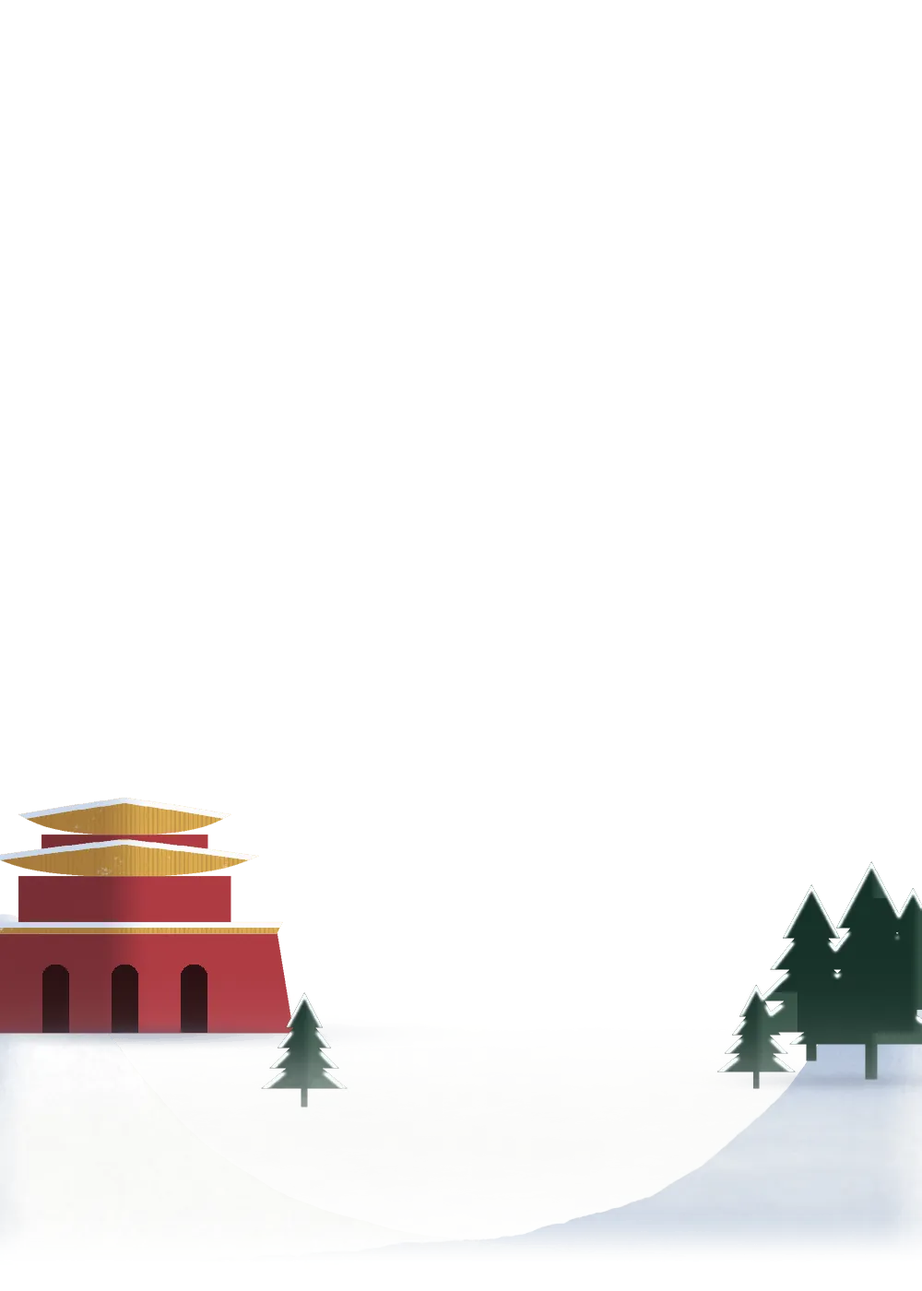
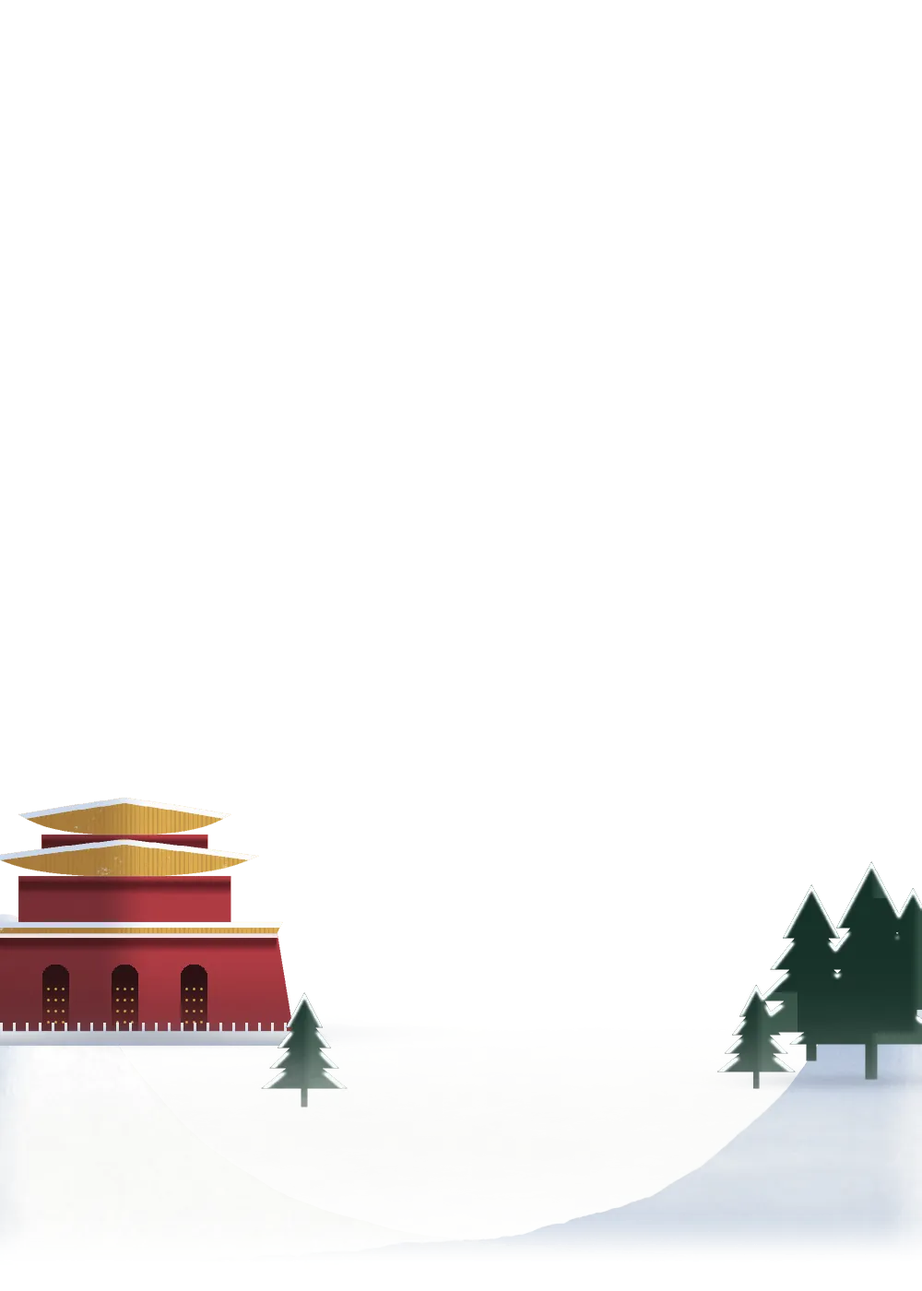
Ruta v25 (en curso): fondos pintados por capas con luz clave, niebla y partículas animadas; una sola gramática de camino por nivel; terreno, bruma y primer plano; tinta B1 que se pinta al avanzar; glifos caligráficos, candado de latón, Empezar con la clase, examen con premio y estado aprobado
Claude-Session: https://claude.ai/code/session_01BaUMrzu23xfwmbCXf3BkLv

Changed region(s): [[0.0, 0.645, 0.31, 0.7371], [0.0, 0.7679, 0.31, 0.8293]]

diff --git a/src/components/ruta/Recorrido.jsx b/src/components/ruta/Recorrido.jsx
@@ -70,7 +70,7 @@ const NIEBLA = { muralla: "#eef1f5", rio: "#f6d4a0", pincel: "#2a3358", escalina
 const LUZ_LADO = { muralla: 1, rio: -1, pincel: 1, escalinata: -1, nubes: 1 };
 const SUELO = {
   // [cresta iluminada, ladera en sombra, falda, borde difuso]
-  muralla: ["#fbf8f2", "#b4c4db", "#93a7c6", "rgba(244,246,250,.55)"],
+  muralla: ["#fdfaf4", "#9fb2d0", "#7489ad", "rgba(244,246,250,.55)"],
   rio: ["#f2cf92", "#c98e5c", "#a8684a", "rgba(250,214,160,.5)"],
   pincel: ["#efe6d2", "#d9cdb2", "#b9ab90", "rgba(239,230,210,.35)"],
   escalinata: ["#a9cf8f", "#5f8f60", "#3f6a4c", "rgba(226,238,226,.6)"],
@@ -81,15 +81,17 @@ function terreno({ M, forma }) {
   const tipo = forma.tipo;
   const c = SUELO[tipo];
   if (!c) return null;
-  const m = M(6);
+  const m = M(tipo === "pincel" ? 3 : 6);
   const lado = LUZ_LADO[tipo];
-  const ancho = (q) => (tipo === "pincel" ? 150 : 170) + 22 * Math.sin(q.s / 53 + 1) + 12 * Math.sin(q.s / 17);
+  const papel = tipo === "pincel";
+  // borde: ondulación amplia + barbas de papel de arroz (pincel) o irregularidad del terreno
+  const amplio = tipo === "escalinata" ? 2.2 : 1;
+  const ancho = (q) => (papel ? 128 : tipo === "escalinata" ? 190 : 170) + 22 * amplio * Math.sin(q.s / 53 + 1) + 12 * Math.sin(q.s / 17) + (papel ? 4 * Math.sin(q.s / 7.3) + 1.6 * Math.sin(q.s / 2.9 + 2) : 3 * Math.sin(q.s / 5.1));
   const grad = `r25-suelo-${tipo}`;
   return (
     <g className={`r25-suelo r25-suelo-${tipo}`}>
       {/* Halo difuso: el terreno se funde con el paisaje */}
-      <path d={cinta(m, (q) => ancho(q) + 90)} style={{ fill: c[3], opacity: 0.35 }} />
-      <path d={cinta(m, (q) => ancho(q) + 50)} style={{ fill: c[3], opacity: 0.55 }} />
+      <path className="r25-halo" d={cinta(m, (q) => ancho(q) + 60)} style={{ fill: c[3] }} />
       {/* Falda de la loma (volumen hacia el espectador) */}
       {tipo !== "pincel" && <path d={cinta(m, (q) => ancho(q) - 6, 0, 30)} style={{ fill: c[2] }} />}
       {tipo !== "pincel" && <path d={cinta(m, (q) => ancho(q) - 6, 0, 30)} style={{ fill: "url(#r25-falda)" }} />}
@@ -112,15 +114,18 @@ function brumaPendiente({ M, forma }) {
 /** Objetos delante del camino (oclusión): pinos nevados, tamariscos y rocas, hojas de orquídea a tinta, arbustos */
 function primerPlano({ M, forma, pts }) {
   const tipo = forma.tipo;
-  const libres = M(46).filter((q, k) => k > 1 && !pts.some((p) => Math.hypot(p[0] - q.x, p[1] + 30 - q.y) < 95));
+  const borde = { escalinata: 92, rio: 92, muralla: 80, pincel: 62 }[tipo] || 80;
+  const cerca = { escalinata: 50, rio: 66, muralla: 36, pincel: 30 }[tipo] || 40;
+  const libres = M(34).filter((q, k) => k > 1 && !pts.some((p) => Math.hypot(p[0] - q.x, p[1] + 30 - q.y) < 72));
   const piezas = [];
   libres.forEach((q, k) => {
-    if (azar(k * 9.1 + pts.length) < 0.35) return;
+    if (azar(k * 9.1 + pts.length) < 0.3) return;
     const lado = k % 2 ? 1 : -1;
-    const off = (tipo === "escalinata" ? 52 : tipo === "rio" ? 70 : 38) + azar(k * 3.3) * 14;
+    // dos de cada tres en el borde del terreno (rompen su silueta); una pegada al camino (lo tapa un poco: oclusión)
+    const off = (k % 3 === 0 ? cerca : borde) + azar(k * 3.3) * 14;
     const x = q.x + q.nx * lado * off;
     const y = q.y + q.ny * lado * off + 14;
-    const e = 0.75 + azar(k * 5.7) * 0.5;
+    const e = (k % 3 === 0 ? 0.8 : 1) * (0.75 + azar(k * 5.7) * 0.5);
     piezas.push(<use key={k} href={`#r25-prop-${tipo}-${k % 2}`} transform={`translate(${f1(x)} ${f1(y)}) scale(${lado * e} ${e})`} />);
   });
   return <g className="r25-delante">{piezas}</g>;
@@ -382,39 +387,77 @@ function Muelle({ x, y }) {
 function pincel({ M, forma, pts }) {
   const m = M(3);
   const ultima = pts.length - 1;
-  // Posición (s) de cada parada para que el pincel cargue más tinta al apoyarse
-  const sParadas = pts.map((p) => m.reduce((mejor, q) => (Math.hypot(q.x - p[0], q.y - p[1]) < Math.hypot(mejor.x - p[0], mejor.y - p[1]) ? q : mejor), m[0]).s);
+  // Posición (s) de cada parada: ahí el pincel se apoya (carga tinta) y luego se va secando hasta la siguiente
+  const sParadas = [0, ...pts.map((p) => m.reduce((mejor, q) => (Math.hypot(q.x - p[0], q.y - p[1]) < Math.hypot(mejor.x - p[0], mejor.y - p[1]) ? q : mejor), m[0]).s)];
   const fin = m[m.length - 1].s;
-  const ancho = (q) => {
-    const presion = sParadas.reduce((acc, s) => acc + 6 * Math.exp(-((q.s - s) ** 2) / (2 * 30 ** 2)), 0);
-    const entrada = Math.min(1, 0.25 + q.s / 60);
-    const salida = Math.min(1, 0.35 + (fin - q.s) / 50);
-    return (19 + 6 * Math.sin(q.s / 47 + 1) + 2.5 * Math.sin(q.s / 13)) * entrada * salida + presion;
+  const seco = (q) => {
+    let i = 0;
+    while (i + 1 < sParadas.length && sParadas[i + 1] <= q.s) i++;
+    const a0 = sParadas[i];
+    const a1 = sParadas[i + 1] ?? fin;
+    return a1 > a0 ? Math.min(1, Math.max(0, (q.s - a0) / (a1 - a0))) : 0;
   };
-  const secos = [-0.36, -0.22, -0.08, 0.12, 0.27, 0.4].map((f, k) => ({ f, k }));
+  const ancho = (q) => {
+    const presion = sParadas.slice(1).reduce((acc, s0) => acc + 9 * Math.exp(-((q.s - s0) ** 2) / (2 * 26 ** 2)), 0);
+    const entrada = Math.min(1, 0.2 + q.s / 50);
+    const salida = Math.min(1, 0.3 + (fin - q.s) / 45);
+    return (22 + 5 * Math.sin(q.s / 47 + 1) + 2 * Math.sin(q.s / 11)) * (1 - 0.38 * seco(q)) * entrada * salida + presion;
+  };
+  // 飞白: vetas de papel que asoman cuando el pincel se seca (más cuanto más lejos de la última parada)
+  const vetas = [];
+  for (let k = 0; k < 11; k++) {
+    const f = -0.42 + (k / 10) * 0.84;
+    const umbral = 0.28 + azar(k * 7.3) * 0.5;
+    let d = "";
+    let dentro = false;
+    m.forEach((q) => {
+      const visible = seco(q) > umbral && Math.sin(q.s / (5 + k) + k) > -0.6;
+      if (!visible) {
+        dentro = false;
+        return;
+      }
+      const w = ancho(q) * f;
+      d += `${dentro ? "L" : "M"}${f1(q.x + q.nx * w)} ${f1(q.y + q.ny * w)}`;
+      dentro = true;
+    });
+    if (d) vetas.push(<path key={k} className="r25-veta" d={d} style={{ strokeWidth: 0.8 + azar(k * 3.1) * 1.4 }} />);
+  }
+  // Pan de oro (金箔) solo en el tramo recorrido
+  const oro = [];
+  m.forEach((q, k) => {
+    if (!q._lit || azar(k * 1.31) > 0.22) return;
+    const off = (azar(k * 2.7) - 0.5) * ancho(q) * 0.8;
+    oro.push(<rect key={k} className="r25-oro" x={f1(q.x + q.nx * off - 1.2)} y={f1(q.y + q.ny * off - 1.2)} width={f1(1.4 + azar(k) * 2.2)} height={f1(1.2 + azar(k * 5) * 1.8)} transform={`rotate(${Math.round(azar(k * 9) * 90)} ${f1(q.x + q.nx * off)} ${f1(q.y + q.ny * off)})`} />);
+  });
   const gotas = [];
   pts.slice(0, ultima).forEach((p, i) => {
-    for (let g = 0; g < 5; g++) {
+    for (let g = 0; g < 4; g++) {
       const a = azar(i * 13 + g) * Math.PI * 2;
       const d = 58 + azar(i * 7 + g * 3) * 26;
-      gotas.push({ x: p[0] + Math.cos(a) * d, y: p[1] + 30 + Math.sin(a) * d * 0.5, r: 1.2 + azar(i + g * 11) * 3.2 });
+      gotas.push({ x: p[0] + Math.cos(a) * d, y: p[1] + 30 + Math.sin(a) * d * 0.5, r: 1 + azar(i + g * 11) * 2.6 });
     }
   });
+  const contorno = (q) => ancho(q) + 1.6 * Math.sin(q.s / 2.3) + 1.1 * Math.sin(q.s / 5.1);
+  const hecho = m.filter((q) => q._lit);
   return (
     <g>
-      <path className="r24-aguada" d={cinta(m, (q) => ancho(q) * 3.2)} />
-      <path className="r24-tinta-borde" d={cinta(m, (q) => ancho(q) + 9, 2, 3)} />
-      <path className="r24-tinta" d={cinta(m, (q) => ancho(q) + 2.2 * Math.sin(q.s / 2.3) + 1.4 * Math.sin(q.s / 5.1))} />
-      {/* Pincel seco (飞白): vetas de papel que asoman dentro del trazo */}
-      {secos.map(({ f, k }) => (
-        <path
-          key={k}
-          className="r24-seco"
-          d={paralela(m, (q) => ancho(q) * f)}
-          style={{ strokeDasharray: `${28 + k * 17} ${46 + ((k * 23) % 40)} ${10 + k * 4} ${30 + k * 9}`, strokeDashoffset: k * 31, strokeWidth: 1 + (k % 3) * 0.7 }}
-        />
+      <path className="r24-aguada" d={cinta(m, (q) => ancho(q) * 2.6)} />
+      {/* Boceto pálido de lo que queda por pintar; lo recorrido, en tinta rica (el pincel pinta al avanzar) */}
+      <path className="r25-tinta-boceto" d={cinta(m, contorno)} />
+      {hecho.length > 2 && (
+        <g>
+          <path className="r25-tinta-cuerpo" d={cinta(hecho, contorno)} />
+          <path className="r25-tinta-nucleo" d={cinta(hecho, (q) => ancho(q) * (0.5 - 0.3 * seco(q)))} />
+          {[1, -1].map((lado) => (
+            <path key={lado} className="r25-tinta-orla" d={paralela(hecho, (q) => (lado * contorno(q)) / 2 - lado * 1.2)} style={{ strokeDasharray: lado > 0 ? "70 6 30 4" : "44 5 90 7" }} />
+          ))}
+        </g>
+      )}
+      {[1, -1].map((lado) => (
+        <path key={lado} className="r25-tinta-orla boceto" d={paralela(m.filter((q) => !q._lit), (q) => (lado * contorno(q)) / 2 - lado * 1.2)} />
       ))}
-      <path className="r24-tinta-brillo" d={paralela(m, (q) => ancho(q) * 0.24, -1)} />
+      {vetas}
+      {oro}
       {gotas.map((g, k) => (
         <circle key={k} className="r24-gota" cx={f1(g.x)} cy={f1(g.y)} r={f1(g.r)} />
       ))}
@@ -444,20 +487,12 @@ function PiedraTinta({ x, y, k = 0 }) {
     dentro.push(`${f1(cx + Math.cos(a) * (rx - w))} ${f1(cy + Math.sin(a) * (ry - w * 0.55))}`);
   }
   const anillo = `M${fuera.join("L")}L${dentro.reverse().join("L")}Z`;
-  const sx = cx + (k % 2 ? -1 : 1) * (rx + 4);
   return (
     <g className="r24-enso">
       <ellipse cx={cx} cy={cy} rx={rx + 10} ry={ry + 6} className="r24-aguada" />
       <ellipse cx={cx} cy={cy} rx={rx - 4} ry={ry - 3} style={{ fill: "rgba(250,246,236,.55)" }} />
       <path d={anillo} className="r24-tinta" />
       <path d={anillo} style={{ fill: "none", stroke: "rgba(236,229,214,.5)", strokeWidth: 0.8, strokeDasharray: "14 22 6 30" }} />
-      <g transform={`translate(${f1(sx)} ${cy + 8}) rotate(${k % 2 ? 8 : -8})`}>
-        <rect x="-9" y="-9" width="18" height="18" rx="2" style={{ fill: "#c8102e" }} />
-        <rect x="-7" y="-7" width="14" height="14" rx="1" style={{ fill: "none", stroke: "#fff1e0", strokeWidth: 1 }} />
-        <text x="0" y="4.5" textAnchor="middle" style={{ fill: "#fff1e0", font: '700 11px "STKaiti","KaiTi",serif' }}>
-          学
-        </text>
-      </g>
     </g>
   );
 }
@@ -879,16 +914,20 @@ export function RecorridoDefs() {
           <path d="M-14 -6 H10 M-10 -11 H12" stroke="#8a4a30" strokeWidth=".8" opacity=".5" />
         </g>
         <g id="r25-prop-pincel-0">
-          {[["M0 0 C-6 -16 -20 -26 -34 -30", 3.2], ["M0 0 C2 -18 12 -32 26 -38", 2.6], ["M0 0 C-2 -12 -4 -26 -14 -40", 2.2], ["M0 0 C6 -8 18 -12 30 -10", 1.8]].map(([d, w], k) => (
-            <path key={k} d={d} fill="none" stroke="#1c1a18" strokeWidth={w} strokeLinecap="round" opacity=".85" />
-          ))}
-          <path d="M-4 -14 q-4 -6 0 -9 q4 3 0 9z M2 -16 q2 -7 7 -6 q0 5 -7 6z" fill="#3a3330" />
-          <circle cx="-1" cy="-17" r="1.6" fill="#c8102e" />
+          {/* Orquídea a tinta: hojas afiladas de un solo trazo con presión */}
+          <path d="M0 0 C-6 -10 -18 -22 -38 -27 C-20 -19 -8 -9 0 0Z" fill="rgba(22,20,18,.82)" />
+          <path d="M1 0 C2 -16 10 -30 24 -40 C14 -27 6 -14 1 0Z" fill="rgba(22,20,18,.78)" />
+          <path d="M-1 0 C-4 -14 -6 -28 -16 -44 C-9 -28 -4 -14 -1 0Z" fill="rgba(22,20,18,.7)" />
+          <path d="M2 0 C8 -6 18 -9 32 -7 C18 -5 9 -3 2 0Z" fill="rgba(22,20,18,.6)" />
+          <path d="M-3 -20 q-5 -4 -3 -9 q4 2 3 9z M3 -24 q1 -7 6 -7 q0 5 -6 7z" fill="rgba(60,52,48,.75)" />
+          <circle cx="0" cy="-24" r="1.4" fill="#c8102e" />
         </g>
         <g id="r25-prop-pincel-1">
-          <path d="M-24 0 Q-26 -16 -12 -24 Q2 -30 14 -20 Q24 -10 22 0Z" fill="rgba(28,26,24,.72)" />
-          <path d="M-18 -4 Q-18 -16 -8 -20 M4 -24 Q14 -18 16 -6" fill="none" stroke="#efe6d2" strokeWidth="1.4" strokeDasharray="6 4 2 5" opacity=".7" />
-          <path d="M-30 1 H30" stroke="rgba(28,26,24,.35)" strokeWidth="2.4" strokeLinecap="round" />
+          {/* Ramita de bambú a tinta */}
+          <path d="M-2 0 C-1 -14 2 -28 6 -42" fill="none" stroke="rgba(22,20,18,.75)" strokeWidth="2.2" strokeLinecap="round" />
+          {[[-1, -14, -150], [1, -24, -30], [3, -34, -160], [5, -40, -20]].map(([x, y, a], k) => (
+            <path key={k} transform={`translate(${x} ${y}) rotate(${a})`} d="M0 0 C6 -3 14 -3 22 0 C14 2 6 2 0 0Z" fill={`rgba(22,20,18,${0.82 - k * 0.1})`} />
+          ))}
         </g>
         <g id="r25-prop-escalinata-0">
           <ellipse cx="-3" cy="1" rx="22" ry="5" fill="#2f5a3a" opacity=".3" />

diff --git a/src/styles/v25-ruta.css b/src/styles/v25-ruta.css
@@ -72,3 +72,46 @@
 
 /* ---------- Un solo Rey Mono en la Ruta (el viajero): el asistente flotante se oculta aquí ---------- */
 body.en-ruta .mf { display: none !important; }
+
+/* ---------- Transición entre unidades: banda de nubes (las nubes ya no son camino, solo umbral) ---------- */
+.rt22 .ruta-main.mr-on .ruta-unit { padding-bottom: 62px; }
+.rt22 .ruta-main.mr-on .ruta-unit::after { content: ""; position: absolute; z-index: 1; left: -4%; right: -4%; bottom: -36px; height: 120px; pointer-events: none;
+  background: url("../../public/theme/ruta/niebla-blanca.webp") 0 50% / 520px 100% repeat-x; opacity: .9; }
+.rt22 .ruta-main.map-A2 .ruta-unit::after { background-image: url("../../public/theme/ruta/niebla-arena.webp"); }
+.rt22 .ruta-main.map-B1 .ruta-unit::after { background-image: url("../../public/theme/ruta/niebla-noche.webp"); opacity: .75; }
+.rt22 .ruta-main.mr-on .ruta-unit .ru-estandarte { z-index: 4; }
+
+/* ---------- Marca de agua del lugar: 3,5 % y fuera de la columna del camino ---------- */
+.rt22 .ruta-main.mr-on .ru-marca-agua { opacity: .035; left: auto; right: 2%; top: 46%; transform: none; }
+.rt22 .ruta-main.mr-on .ru-marca-agua b { writing-mode: vertical-rl; font-size: 54px; letter-spacing: 8px; margin: 0; }
+.rt22 .ruta-main.mr-on .ru-marca-agua svg { display: none; }
+@media (max-width: 700px) { .rt22 .ruta-main.mr-on .ru-marca-agua { display: none; } }
+
+/* ---------- Pestañas de nivel inactivas legibles ---------- */
+.rh-tablilla:not(.on) { filter: saturate(.85) brightness(.97); }
+.rh-tablilla:not(.on) .rh-velo { background: linear-gradient(180deg, color-mix(in srgb, var(--d) 25%, transparent) 0%, color-mix(in srgb, var(--d) 60%, transparent) 38%, color-mix(in srgb, var(--d) 96%, transparent) 100%); }
+
+/* ---------- Móvil: el final del camino nunca queda bajo la barra inferior ---------- */
+@media (max-width: 1000px) {
+  .rt22 .ruta-main.mr-on { padding-bottom: calc(96px + 24px + env(safe-area-inset-bottom, 0px)) !important; }
+}
+/* Sello «成» arriba a la derecha: no tapa la etiqueta de la clase */
+.rt22 .ruta-camino .md-sello { top: -8px; bottom: auto; right: -14px; }
+
+/* ---------- Estandarte en móvil: título en dos líneas (chino debajo), lugar en su línea, «0/2» dentro del rollo ---------- */
+@media (max-width: 700px) {
+  .rt22 .ruta-unit .ru-estandarte { grid-template-columns: auto minmax(0, 1fr) auto; grid-template-rows: auto auto; column-gap: 10px; row-gap: 5px; align-items: center; padding: 10px 8px 9px 10px; }
+  .rt22 .ruta-unit .ru-medallon { grid-column: 1; grid-row: 1 / 3; align-self: center; }
+  .rt22 .ruta-unit .ru-textos { grid-column: 2; grid-row: 1; }
+  .rt22 .ruta-unit .ru-guia { grid-column: 3; grid-row: 1 / 3; align-self: center; }
+  .rt22 .ruta-unit .ru-clases { position: static; grid-column: 2; grid-row: 2; justify-self: start; padding: 2px 8px; }
+  .rt22 .ruta-unit .ru-lugar { white-space: normal; overflow: visible; font-size: 10.5px; line-height: 1.25; }
+  .rt22 .ruta-unit .ru-lugar > span { font-size: 12.5px; }
+  .rt22 .ruta-unit .ru-estandarte h2 { white-space: normal; overflow: visible; text-overflow: clip; font-size: 17px; line-height: 1.12; margin-top: 3px; }
+  .rt22 .ruta-unit .ru-estandarte h2 .ru-titulo { display: block; }
+  .rt22 .ruta-unit .ru-estandarte h2 i { display: block; margin: 3px 0 0; font-size: 13.5px; }
+}
+/* El botón se desplaza hacia el centro del carril (no se sale por el borde); la flecha sigue apuntando a la parada */
+.rt22 .rp-parada .rp-empezar { translate: calc(var(--dxe, 0px) * .5) 0; }
+.rt22 .rp-parada .rp-empezar::after { left: calc(50% - var(--dxe, 0px) * .5) !important; }
+@media (max-width: 700px) { .rt22 .rp-parada .rp-empezar { translate: calc(var(--dxe, 0px) * .62) 0; } .rt22 .rp-parada .rp-empezar::after { left: calc(50% - var(--dxe, 0px) * .62) !important; } }

diff --git a/src/pages/RutaPage.jsx b/src/pages/RutaPage.jsx
@@ -20,7 +20,7 @@ import { TransicionNivel } from "../components/ruta/TransicionNivel.jsx";
 import { CabeceraRuta } from "../components/ruta/CabeceraRuta.jsx";
 import { SelloPasaporte, FiltroTinta, fechaSello } from "../components/ruta/SelloPasaporte.jsx";
 import { Pictograma, PaisajeBanda, paisajeDe } from "../components/ruta/paisajes.jsx";
-import { ANCHO_CARRIL, FILA, ARRIBA, ENTRADA, puntosCamino, trazado, tramo, puntoCurva, formaDe } from "../components/ruta/geometria.js";
+import { ANCHO_CARRIL, FILA, ajustarFila, ARRIBA, ENTRADA, puntosCamino, trazado, tramo, puntoCurva, formaDe } from "../components/ruta/geometria.js";
 import { Medallon, SelloHecha, CofreImperial, GlifoClase } from "../components/ruta/Medallon.jsx";
 import { Recorrido, RecorridoDefs } from "../components/ruta/Recorrido.jsx";
 import "../styles/v13-ruta-mundos.css";
@@ -115,6 +115,7 @@ export default function RutaPage() {
   const lv = LEVELS.find((nivel) => nivel.key === level) || LEVELS[0];
   const mods = CATALOG.filter((unidad) => unidad.nivel === lv.key);
   const esMovil = useEsMovil();
+  ajustarFila(esMovil);
   const [abierta, setAbierta] = React.useState(null); // parada con el popover abierto («unidad-clase»)
   const [negada, setNegada] = React.useState(null); // parada bloqueada que acaba de tocarse (vaivén)
   const [lesson, setLesson] = React.useState(null);
@@ -245,8 +246,8 @@ export default function RutaPage() {
       const rNodo = nodo.getBoundingClientRect();
       const cofre = nodo.closest(".ruta-unit")?.querySelector(".rp-cofre");
       const rCofre = cofre?.getBoundingClientRect();
-      const bloqueArriba = rNodo.top - (movil ? 84 : 96); // incluye el botón Empezar
-      const bloqueAbajo = rCofre ? rCofre.bottom + 26 : rNodo.bottom + 60;
+      const bloqueArriba = rNodo.top - (movil ? 72 : 96); // incluye el botón Empezar
+      const bloqueAbajo = rCofre ? rCofre.bottom + (movil ? 44 : 56) : rNodo.bottom + 60; // cartel «Examen» y premio
       const libre = abajo - arriba - (bloqueAbajo - bloqueArriba);
       const delta = libre >= 0 ? bloqueArriba - arriba - libre * 0.45 : bloqueArriba - arriba;
       let contenedor = nodo.parentElement;
@@ -398,7 +399,7 @@ export default function RutaPage() {
                   </span>
                   <div className="ru-textos">
                     <span className="ru-lugar">
-                      <span translate="no">{parada?.ciudadZh}·{parada?.lugarZh}</span> {parada?.ciudad} · {parada?.lugar}
+                      <span translate="no">{parada?.lugarZh?.startsWith(parada?.ciudadZh || "\u0000") ? parada?.lugarZh : `${parada?.ciudadZh}·${parada?.lugarZh}`}</span> {parada?.ciudad} · {parada?.lugar}
                     </span>
                     <h2>
                       <small>
@@ -481,7 +482,7 @@ export default function RutaPage() {
                           ref={esLaDeFiesta ? fiestaRef : isCurrent ? currentRef : null}
                         >
                           {isCurrent && (
-                            <button type="button" className="rp-empezar" onClick={abrir} tabIndex={-1} aria-hidden="true">
+                            <button type="button" className="rp-empezar" onClick={abrir} tabIndex={-1} aria-hidden="true" style={{ "--dxe": `${ANCHO_CARRIL / 2 - pts[i][0]}px` }}>
                               <span className="rp-emp-ala izq" />
                               <span className="rp-emp-ala der" />
                               <span className="rp-emp-luz" />

diff --git a/src/styles/v23-ruta-recorridos.css b/src/styles/v23-ruta-recorridos.css
@@ -231,9 +231,9 @@
 .r24-rio .r25-proyectada { fill: rgba(110,50,30,.2); }
 .r24-escalinata .r25-proyectada { fill: rgba(20,50,30,.28); }
 .r25-bruma { filter: url(#r24-desenfoque); pointer-events: none; }
-.r25-bruma-muralla { fill: rgba(236,240,247,.62); }
+.r25-bruma-muralla { fill: rgba(236,240,247,.45); }
 .r25-bruma-rio { fill: rgba(250,220,175,.55); }
-.r25-bruma-pincel { fill: rgba(236,229,214,.5); }
+.r25-bruma-pincel { fill: rgba(236,229,214,.32); }
 .r25-bruma-escalinata { fill: rgba(236,243,236,.6); }
 .r25-delante { filter: drop-shadow(0 2px 2px rgba(20,20,30,.25)); }
 @media (max-width: 700px) {
@@ -245,3 +245,20 @@
 /* El terreno lo dibuja el Recorrido: fuera los velos rectangulares heredados del tramo */
 .rt22 .ruta-main.mr-on .ruta-camino-wrap::before, .rt22 .ruta-main.mr-on .ruta-camino-wrap::after,
 .ruta-main.mr-on .ruta-camino-wrap.ru-terreno::before, .ruta-main.mr-on .ruta-camino-wrap::after { display: none !important; }
+/* v25 · Tinta B1: cuerpo translúcido, orla de tinta acumulada, 飞白 y pan de oro en lo recorrido */
+.r25-halo { opacity: .7; filter: url(#r24-desenfoque); }
+.r25-suelo-pincel .r25-halo { opacity: .45; }
+.r25-tinta-cuerpo { fill: rgba(28,24,22,.58); filter: url(#r24-sangrado); }
+.r25-tinta-nucleo { fill: rgba(10,8,8,.38); }
+.r25-tinta-orla { fill: none; stroke: rgba(12,10,9,.72); stroke-width: 2.4; stroke-linecap: round; }
+.r25-veta { fill: none; stroke: #efe6d2; stroke-opacity: .78; stroke-linecap: round; }
+.r25-oro { fill: #f6d77e; stroke: #b07a1c; stroke-width: .3; }
+.rt22 .ruta-camino.rf-pincel .ruta-carretera .halo { opacity: 0; }
+.rt22 .ruta-camino.rf-pincel .ruta-carretera .oro { stroke-width: 2.2; }
+.rt22 .ruta-camino.rf-pincel .ruta-carretera .luz { stroke-width: .8; }
+@media (max-width: 700px) { .r25-halo { filter: none; opacity: .35; } .r25-tinta-cuerpo { filter: none; } }
+.r25-tinta-boceto { fill: rgba(60,52,48,.16); }
+.r25-tinta-orla.boceto { stroke: rgba(40,34,30,.35); stroke-width: 1.2; stroke-dasharray: 3 5; }
+.r25-tinta-cuerpo { fill: rgba(20,17,15,.8); }
+.r25-tinta-nucleo { fill: rgba(5,4,4,.45); }
+.r25-bruma-pincel { fill: rgba(236,229,214,.12); }

diff --git a/src/components/ruta/CabeceraRuta.jsx b/src/components/ruta/CabeceraRuta.jsx
@@ -2,16 +2,16 @@ import * as React from "react";
 
 /*
   v22 · Cabecera de la Ruta: «dos dragones juegan con la perla» (二龙戏珠) sobre un dintel de laca, y cuatro tablillas
-  de nivel, cada una con su mundo (A1 bambú, A2 linternas, B1 tinta, B2 Ciudad Prohibida).
+  de nivel, cada una con su mundo (v25: A1 Pekín nevado, A2 dunas, B1 agua y tinta, B2 karst y niebla).
   Los dragones nacen de nubes de oro: así se ven enteros, sin cortes contra el borde del pergamino.
   Todo se anima con transform/opacity y se detiene con prefers-reduced-motion (v22-ruta.css).
 */
 
 export const MUNDO_NIVEL = {
-  A1: { es: "Bosque de bambú", zh: "竹林", c: "#1f9a5c", d: "#0d4a2b", luz: "#b8f5cf" },
-  A2: { es: "Calle de linternas", zh: "灯笼街", c: "#e2541e", d: "#7d1a08", luz: "#ffd58a" },
-  B1: { es: "Montes de tinta", zh: "水墨山", c: "#2f5fb3", d: "#0f2350", luz: "#cfe0ff" },
-  B2: { es: "Ciudad Prohibida", zh: "紫禁城", c: "#7a3fd0", d: "#2c0f5c", luz: "#fde68a" },
+  A1: { es: "Pekín nevado", zh: "雪中北京", c: "#1f9a5c", d: "#0d4a2b", luz: "#b8f5cf" },
+  A2: { es: "Dunas al atardecer", zh: "大漠落日", c: "#e2541e", d: "#7d1a08", luz: "#ffd58a" },
+  B1: { es: "Agua y tinta", zh: "江南水墨", c: "#2f5fb3", d: "#0f2350", luz: "#cfe0ff" },
+  B2: { es: "Karst y niebla", zh: "山水云雾", c: "#7a3fd0", d: "#2c0f5c", luz: "#fde68a" },
 };
 
 // Mini-escenas de cada tablilla (200×90, se recortan con la tablilla)

diff --git a/src/components/ruta/MundoRuta.jsx b/src/components/ruta/MundoRuta.jsx
@@ -59,7 +59,7 @@ export function MundoRuta({ nivel, momento: momentoProp, fiesta: fiestaProp = fa
       <div className="mr-fijo">
         <div className="mr-cielo" />
         <div className="mr-lienzo" style={{ "--sx": `${luz.x}%`, "--sy": `${luz.y}%` }}>
-          <img className="mr-capa mr-lejos" src={capa(nv, "lejos")} alt="" decoding="async" fetchpriority="high" />
+          <img className="mr-capa mr-lejos" src={capa(nv, "lejos")} alt="" decoding="async" fetchPriority="high" />
           <span className="mr-rayos" />
           <span className={`mr-tira n-${luz.niebla} t1`} />
           <img className="mr-capa mr-medio" src={capa(nv, "medio")} alt="" decoding="async" />

diff --git a/src/components/ruta/geometria.js b/src/components/ruta/geometria.js
@@ -8,7 +8,11 @@
 //   nubes    → el vuelo del Rey Mono saltando de nube en nube                    (todos, de vez en cuando)
 // Todo es determinista: la misma unidad (nivel + posición) siempre dibuja la misma forma.
 export const ANCHO_CARRIL = 300;
-export const FILA = 150;
+export let FILA = 150;
+/** v25 · En móvil las paradas van algo más juntas para que la clase actual y el examen quepan sin hacer scroll */
+export function ajustarFila(movil) {
+  FILA = movil ? 128 : 150;
+}
 export const ARRIBA = 150;
 const CENTRO = ANCHO_CARRIL / 2;
 

diff --git a/scripts/fondos-ruta.py b/scripts/fondos-ruta.py
@@ -426,7 +426,23 @@ def A1():
     for ax in (60, 135, 210):
         arcos = np.maximum(arcos, ((np.abs(X - ax) < 15) & (Y > 1060) & (Y < 1120)) | (((X - ax) ** 2 + (Y - 1060) ** 2) < 225))
     edificio(C, te, mu, luz=luz, cx=135, aire="#e3e8f0", aire_f=0.12, seed=4)
-    C.pon(hexa("#2a1012"), arcos * mu)
+    # volumen del muro: más oscuro abajo, sombra del alero, albardilla dorada con nieve, tachones de las puertas
+    C.pon(hexa("#3a0c10"), mu * suave(1030, 1120, Y) * 0.35)
+    for y_alero, x0, x1 in ((950, 20, 250), (905, 45, 225), (1012, -10, 300)):
+        C.pon(hexa("#2a0a0c"), mu * ((X > x0) & (X < x1)) * suave(y_alero + 2, y_alero + 7, Y) * suave(y_alero + 22, y_alero + 9, Y) * 0.55)
+    C.pon(hexa("#f8f9fc"), mu * (np.abs(Y - 1014) < 2.5) * 0.9)
+    tach = np.zeros((H, W), np.float32)
+    for ax in (60, 135, 210):
+        for dy in (1072, 1084, 1096, 1108):
+            for dx in (-8, 0, 8):
+                tach = np.maximum(tach, np.clip(1 - ((X - ax - dx) ** 2 + (Y - dy) ** 2) / 3.2, 0, 1))
+    C.pon(mezcla(np.broadcast_to(hexa("#2a1012"), (H, W, 3)), hexa("#5a1a1c"), suave(1060, 1120, Y)), arcos * mu)
+    C.pon(hexa("#e8b84a"), tach * arcos)
+    # basamento de mármol blanco (须弥座) con barandilla
+    bas = ((Y > 1118) & (Y < 1134) & (X < 330)).astype(np.float32)
+    C.pon(mezcla(np.broadcast_to(hexa("#f4f2ee"), (H, W, 3)), hexa("#aab6c8"), suave(1120, 1134, Y)), bas)
+    C.pon(hexa("#c9d2de"), ((np.abs(Y - 1118) < 1) & (X < 330)).astype(np.float32))
+    C.pon(hexa("#e9edf2"), (((X % 14) < 3) & (Y > 1108) & (Y < 1119) & (X < 320)).astype(np.float32))
     sombra_contacto(C, 150, 1122, 230, 14, 0.35, "#3a4a6a")
     pinos_nevados(C, [(880, 1150, 170), (945, 1170, 210), (990, 1120, 140), (820, 1180, 100), (330, 1200, 110)], verde="#183229",
                   nieve="#f7fbff", luz=luz, seed=6)
